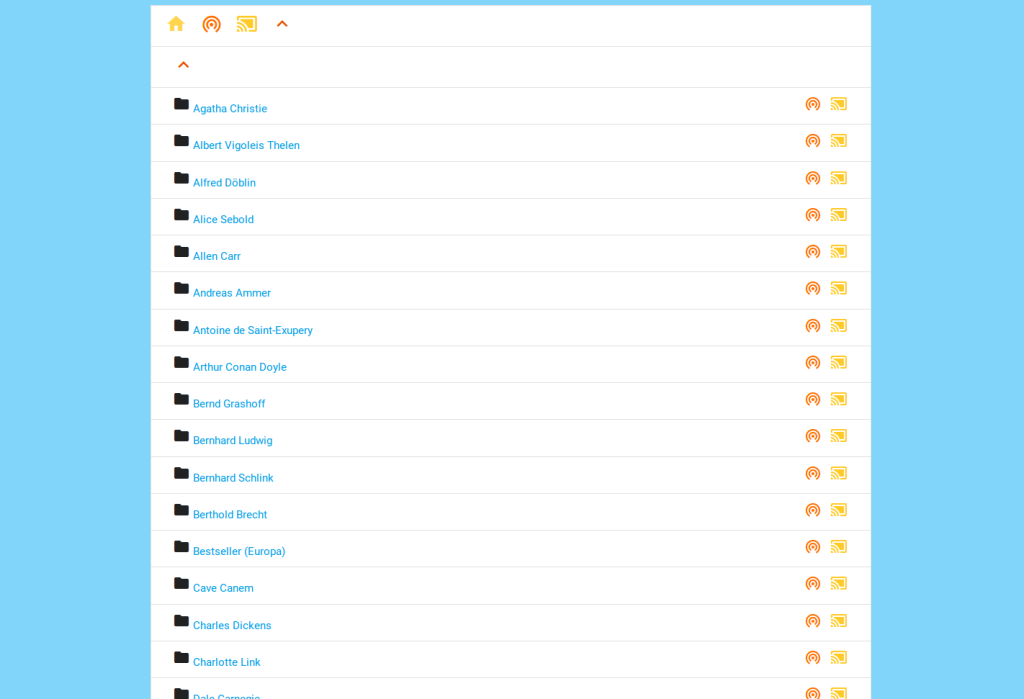
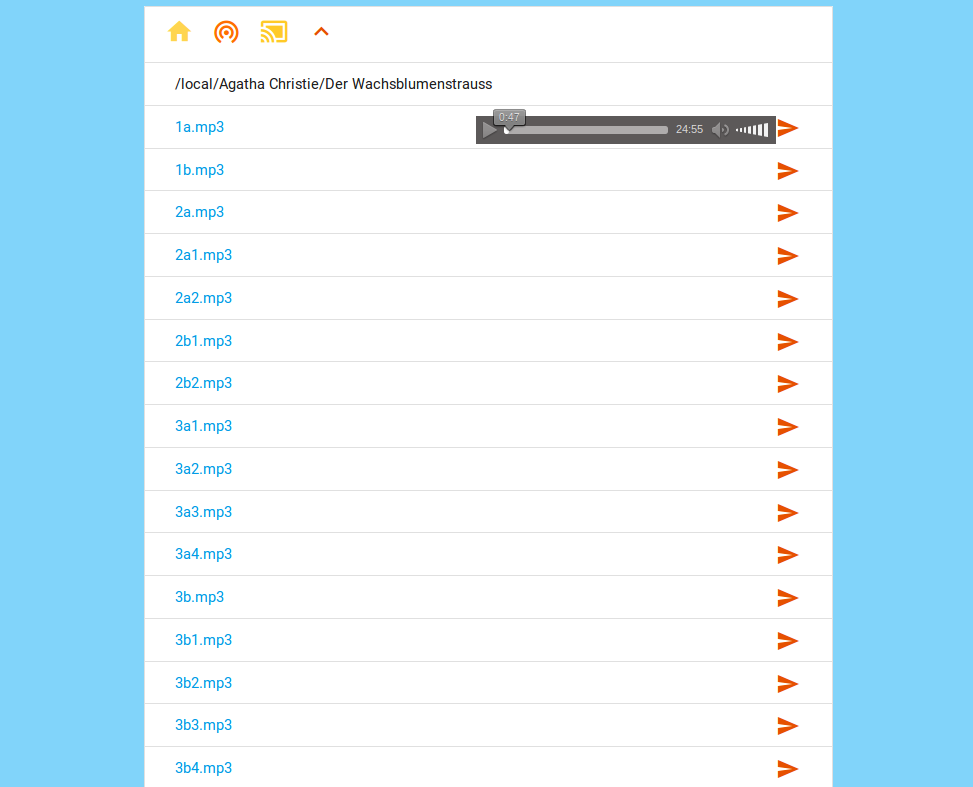
added template caching switch to config added html5 multimedia tag to default theme added path to headline when browsing foldes

Changed region(s): [[0.185, 0.0, 0.8633, 1.0], [0.1542, 0.1202, 0.3083, 1.0], [0.1542, 0.0, 0.3392, 0.0601]]

diff --git a/themes/default/foldersTemplate.html b/themes/default/foldersTemplate.html
@@ -10,7 +10,23 @@
 
     <link rel="stylesheet" href="https://cdnjs.cloudflare.com/ajax/libs/materialize/0.97.0/css/materialize.min.css">
     <link href="https://fonts.googleapis.com/icon?family=Material+Icons" rel="stylesheet">
+    <script type="text/javascript" src="https://code.jquery.com/jquery-2.1.4.min.js"></script>
+    <script>
+        $(function(){
+            console.log( "ready!" );
+            $(".playable").click(function(e){
 
+                e.preventDefault();
+
+                if($(this).hasClass("video")) {
+                    $(this).after("<video width='320' height='240' autoplay controls class='secondary-content'><source src='"+$(this).attr("href")+"'></video>").unbind("click");
+                } else {
+                    $(this).after("<audio autoplay controls class='secondary-content'><source src='"+$(this).attr("href")+"'></audio>").unbind("click");
+                    console.log("audio");
+                }
+            })
+        });
+    </script>
 </head>
 <body class="light-blue lighten-3">
 <div class="container light-blue lighten-5">
@@ -23,7 +39,7 @@
         </li>
 
         <li class="collection-item">
-        <a href="{{GetConfig.Feed_webRoot}}{{GetConfig.Feed_folders_dir}}/{{.Parent}}/.." title="up"><i class="small material-icons" style="color:#e65100; padding-right:0.5em;">keyboard_arrow_up</i></a>
+           {{.Parent}}
         </li>
 
         {{range .Files}}
@@ -36,25 +52,13 @@
                 <i class="material-icons">folder</i>
                 {{end}}
 
-<!--
-                {{if .IsAudioFile}}
-                    <audio controls>
-                        <source src="horse.ogg" type="audio/ogg">
-                        <source src="/{{GetConfig.Feed_folders_dir}}/{{.Dir}}/{{.Name}}">
-                    </audio>
-                {{else if .IsVideoFile}}
-                    <video width="320" height="240" controls>
-                        <source src="/{{GetConfig.Feed_folders_dir}}/{{.Dir}}/{{.Name}}">
-                    </video>
-                {{end}}
--->
                     <a href="{{GetConfig.Feed_webRoot}}{{GetConfig.Feed_folders_dir}}/{{Encode_url .Dir}}/{{Encode_url .Name}}"> {{.Name}} </a>
                 {{if .IsDir}}
                     <a href="{{GetConfig.Feed_webRoot}}{{GetConfig.Feed_feeds_dir}}/rss/{{Encode_url .Dir}}/{{Encode_url .Name}}" class="secondary-content"  title="rss feed"><i class="material-icons" style="color:#ffca28; padding-right:0.5em;">cast_connected</i> </a>
                     <a href="{{GetConfig.Feed_webRoot}}{{GetConfig.Feed_feeds_dir}}/atom/{{Encode_url .Dir}}/{{Encode_url .Name}}" class="secondary-content"  title="atom feed"><i class="material-icons" style="color:#ff6f00; padding-right:0.5em;">wifi_tethering</i> </a>
 
                 {{else}}
-                    <a href="{{GetConfig.Feed_webRoot}}{{GetConfig.Feed_folders_dir}}/{{Encode_url .Dir}}/{{Encode_url .Name}}" class="secondary-content" title="open"><i class="material-icons"  style="color:#e65100; padding-right:0.5em;">send</i> </a>
+                    <a href="{{GetConfig.Feed_webRoot}}{{GetConfig.Feed_folders_dir}}/{{Encode_url .Dir}}/{{Encode_url .Name}}" class="secondary-content {{if .IsAudioFile}} playable audio {{else if .IsVideoFile}} playable video  {{end}}" title="open"><i class="material-icons"  style="color:#e65100; padding-right:0.5em;">send</i> </a>
                 {{end}}
 
 

diff --git a/feed.go b/feed.go
@@ -28,20 +28,21 @@ var config *AudioFeedConfig
 var tmp *template.Template
 
 type AudioFeedConfig struct {
-	Feed_name         string
-	Feed_webUrl       string
-	Feed_port         int
-	Feed_webRoot      string
-	Feed_description  string
-	Feed_author       string
-	Feed_author_email string
-	Feed_feeds_dir    string
-	Feed_files_dir    string
-	Feed_folders_dir  string
-	Feed_theme        string
-	Feed_enableAuth   bool
-	Feed_username     string
-	Feed_password     string
+	Feed_name                   string
+	Feed_webUrl                 string
+	Feed_port                   int
+	Feed_webRoot                string
+	Feed_description            string
+	Feed_author                 string
+	Feed_author_email           string
+	Feed_feeds_dir              string
+	Feed_files_dir              string
+	Feed_folders_dir            string
+	Feed_theme                  string
+	Feed_enableAuth             bool
+	Feed_username               string
+	Feed_password               string
+	Feed_disableTemplateCaching bool
 }
 
 //reads config.json values and creates one from config.default.json in case there is none
@@ -291,9 +292,8 @@ func folders_handler(w http.ResponseWriter, r *http.Request) {
 	cleanURLPath := r.URL.Path[(len(config.Feed_webRoot+config.Feed_folders_dir) + 0):]
 	fileRoot := http.Dir(getDirNameOfOperation() + "/" + config.Feed_files_dir)
 
-
 	var err error
-	if tmp == nil {
+	if config.Feed_disableTemplateCaching || tmp == nil {
 		tmplTxt, err := ioutil.ReadFile(getDirNameOfOperation() + "/themes/" + config.Feed_theme + "/foldersTemplate.html")
 		if err != nil {
 			fmt.Println("Error reading template file: ", err)
@@ -303,8 +303,8 @@ func folders_handler(w http.ResponseWriter, r *http.Request) {
 		x := template.New("FolderPage")
 		funcs := template.FuncMap{"GetConfig": GetConfig, "Encode_url": encode_url}
 		tmp = template.Must(x.Funcs(funcs).Parse(string(tmplTxt)))
-
 	}
+
 	if err != nil {
 		fmt.Println("Error parsing foldersTemplate.html:")
 		http.Error(w, "Error parsing foldersTemplate.html", 500)
